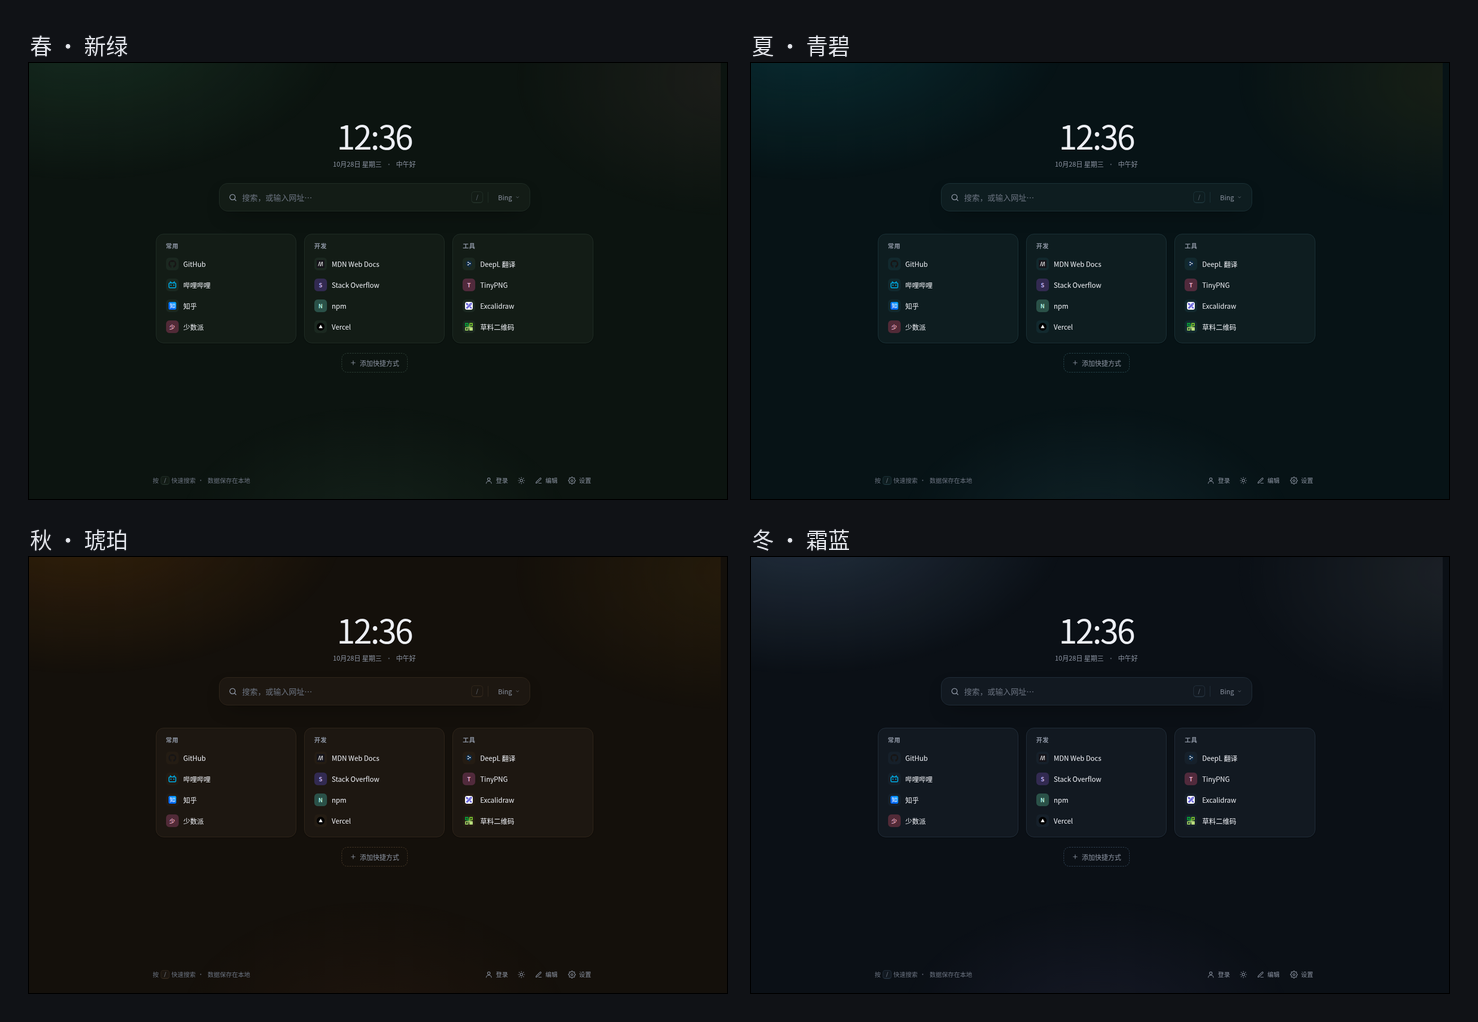
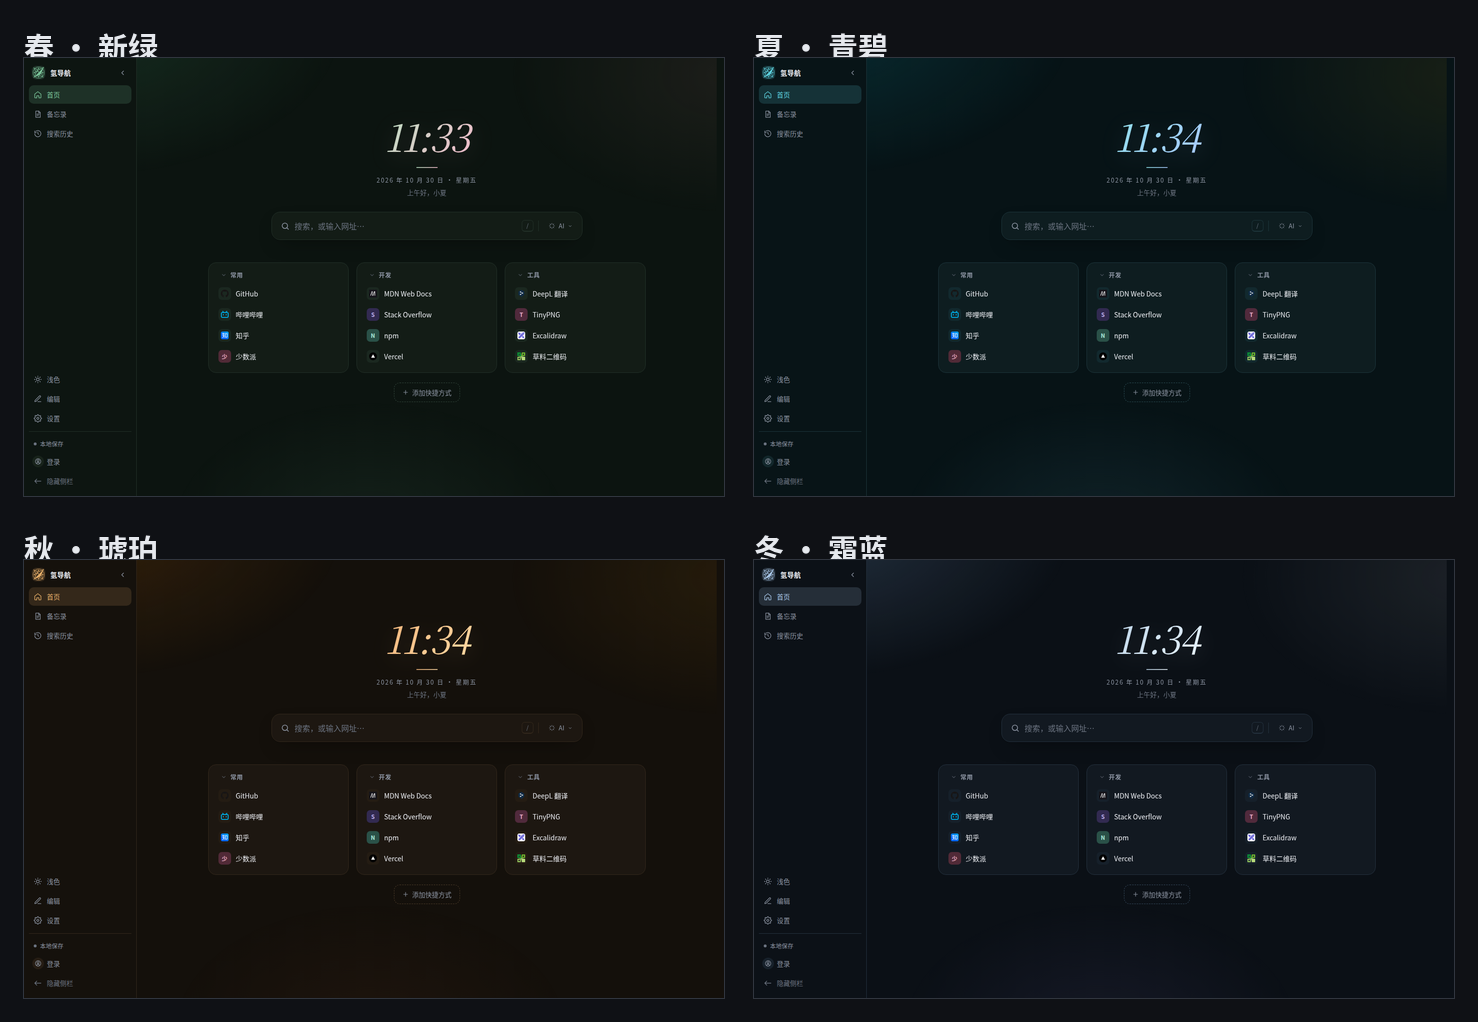
docs: 更新 README 截图与审计说明

diff --git a/README.md b/README.md
@@ -20,7 +20,7 @@
 - **零依赖前端**：纯 HTML / CSS / 原生 JS，没有构建步骤。
 - **部署简单**：一个 `config.yml` + 一个二进制文件即可启动；运行期设置在 `/admin` 管理后台修改。
 
-![浅色预览](docs/preview-light.png)
+![浅色预览：侧栏、搜索、快捷方式分组与四季时钟](docs/preview-light.png)
 
 <details>
 <summary>深色预览</summary>
@@ -47,7 +47,8 @@
 - **深浅色 + 四季配色**：明暗可跟随系统，另有春、夏、秋、冬四套配色，手动切换。
 - **账号与同步**：邮箱注册与验证、会话自动续期、多设备同步、冲突合并、登录设备管理、导出与删号；内置头像库按账号稳定分配（DiceBear Thumbs，CC0）。
 - **可选客户端加密**：云端只存密文，忘记密码可用恢复码找回；管理员查看也需要用户提供加密密码。
-- **管理后台**：数据概览页 + 分组后的「用户管理 / 站点 / 注册与邮件 / 会话与 AI」设置；站点页可配置站点名称和 Logo（URL 或上传），用户列表显示每人云端数据数量；配置先展示已保存值摘要，通过编辑弹窗分组修改；取消不保存，失败保留输入。危险操作使用站内确认弹窗。保存后立即生效，不需要重启。
+- **管理后台**：数据概览页 + 分组后的「用户管理 / 审计 / 站点 / 注册与邮件 / 会话与 AI」设置；站点页可配置站点名称和 Logo（URL 或上传），用户列表显示每人云端数据数量；配置先展示已保存值摘要，通过编辑弹窗分组修改；取消不保存，失败保留输入。危险操作使用站内确认弹窗。保存后立即生效，不需要重启。左下角显示后端版本，便于排查前后端版本错配。
+- **审计日志**：登录、改密、改邮箱、恢复码轮换、关闭加密、删号和管理员操作都会写入审计表；后台「审计」页可按动作/操作者筛选并分页查看，记录操作者邮箱、动作、IP、时间和摘要。
 - **数据本地优先**：所有修改先写本地，联网后自动同步；离线也能正常编辑。
 
 ## 四季配色
@@ -115,6 +116,7 @@ chmod 600 config.yml        # 里面包含数据库密码
 - **注册与验证**：是否开放注册、注册是否需要邮箱验证。
 - **SMTP**：服务器、端口、用户名、密码、发件人、加密方式，以及发送测试邮件。
 - **用户数据**：在「用户管理」里点「查看」，可以看到该用户的分组和分组下的链接；如果对方开启了加密，需要输入用户提供的加密密码，密码只在管理员浏览器里使用。
+- **审计**：查看最近的账号与管理员操作，支持按动作、操作者邮箱和关键词筛选；审计记录只读，不提供删除入口。
 - **会话**：闲置过期时间、绝对上限、续期间隔。
 
 保存后立即生效，多个实例最多 30 秒内同步到最新设置。SMTP 未配置时，邮箱验证会自动失效并在后台给出提示。
